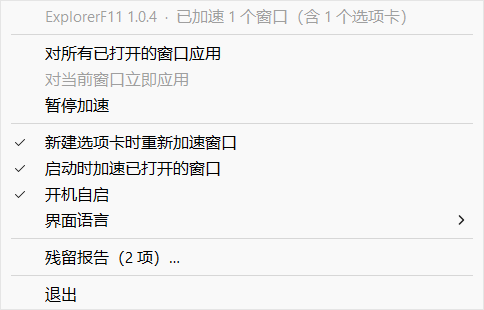
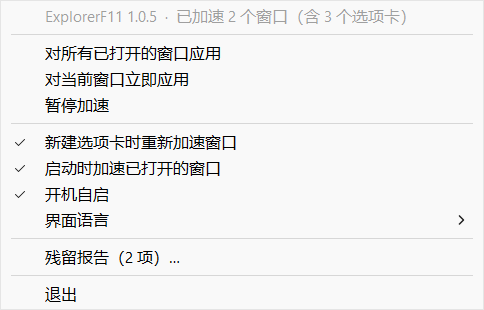
release: 1.0.5
The count of accelerated windows only ever went up. Closing a folder window left
the tray tooltip, the menu header and an open residue report showing the old
number until some later event happened to refresh them.
The shell reports HSHELL_WINDOWDESTROYED while the window still exists and
still carries the mark — measured: IsWindow and IsMarked both true, the
properties gone about 50 ms later. The handler rebuilt the surfaces at that
instant, so the read still counted the dying window; and because the report
refreshes from the snapshot taken at that instant, nothing read the desktop
again afterwards. The rebuild now waits for a 60 ms one-shot timer, by which
time IsWindow says the window is gone and the maintained set drops it. Bursts
of closes collapse into the one timer. The binary is 420,864 bytes (411 KiB),
the same as 1.0.4: the fix costs a timer and a message handler, not a structure.
Roughly fifty assertions in test_robustness.py and test_icons.py were of the
form "this exact line is in main.cpp". They went red when a rename preserved
behaviour and green when the guarded code was dead — which is what the count bug
above was: the line IsMarked(gone)) OnStateChanged(); was present and its
contract test passed while the feature was broken.
Every guarantee that could be observed from outside now is:
- test_smoke.py opens and closes real windows and reads the report the program
  drew: the start-up sweep and --no-initial, the count following a close, and
[…]

diff --git a/docs/release-notes/1.0.5.md b/docs/release-notes/1.0.5.md
@@ -1,20 +1,20 @@
 ![ExplorerF11](https://raw.githubusercontent.com/QzCrane/ExplorerF11/main/docs/images/app-icon.png)
 
-# ExplorerF11 {{version}}
+# ExplorerF11 1.0.5
 
 A patch release for one defect: **the count of accelerated windows only ever went
 up.** Closing a folder window left the tray tooltip, the menu header and an open
 residue report showing the old number until some later event happened to refresh
 them. Nothing else about the program changed.
 
-The executable is {{bytes_grouped}} bytes ({{kib}} KiB). It is **unsigned**, so
+The executable is 420,864 bytes (411 KiB). It is **unsigned**, so
 SmartScreen will warn on first run; the SHA-256 below is the integrity check that
 replaces a signature.
 
 ## What you get
 
 One 64-bit Windows executable — no installer, no runtime, no external files.
-Put `{{asset}}` anywhere and run it. Built with MinGW-w64 GCC 16.1.0 through
+Put `ExplorerF11-1.0.5-win64.exe` anywhere and run it. Built with MinGW-w64 GCC 16.1.0 through
 `make -B` on the release machine; MSVC builds the same sources in CI with
 `/std:c++latest`.
 
@@ -64,14 +64,14 @@ Each new assertion was verified by putting the defect back: reverting the timer,
 ignoring `--no-initial`, dropping the tick comparison, removing the memoised
 early return and adding a second `PROP_MARK` writer all go red.
 
-{{gates}} gates, **{{assertions}} assertions**, all green on this exact source
+14 gates, **356 assertions**, all green on this exact source
 tree. The extra time over 1.0.4 goes into the observations above; wall-clock
 duration varies with the machine and is not a correctness claim.
 
 ## Verify before running
 
 ```
-{{sha256}}  {{asset}}
+0bca4a10fa4b389d9aecfdf92e5b229f6d359e79ef78faef3f81a4b3cb77940f  ExplorerF11-1.0.5-win64.exe
 ```
 
 `SHA256SUMS.txt` is attached. GNU `sha256sum` prescribes the line format
@@ -80,9 +80,9 @@ the manifest itself; `sha256sum -c SHA256SUMS.txt` works, and the digest is pair
 with the asset name in the file content. On Windows:
 
 ```powershell
-Get-FileHash .\{{asset}} -Algorithm SHA256
-(Get-Item .\{{asset}}).VersionInfo.FileVersion   # {{version}}.0
-.\{{asset}} --version                            # ExplorerF11 {{version}}
+Get-FileHash .\ExplorerF11-1.0.5-win64.exe -Algorithm SHA256
+(Get-Item .\ExplorerF11-1.0.5-win64.exe).VersionInfo.FileVersion   # 1.0.5.0
+.\ExplorerF11-1.0.5-win64.exe --version                            # ExplorerF11 1.0.5
 ```
 
 ## Residue policy
